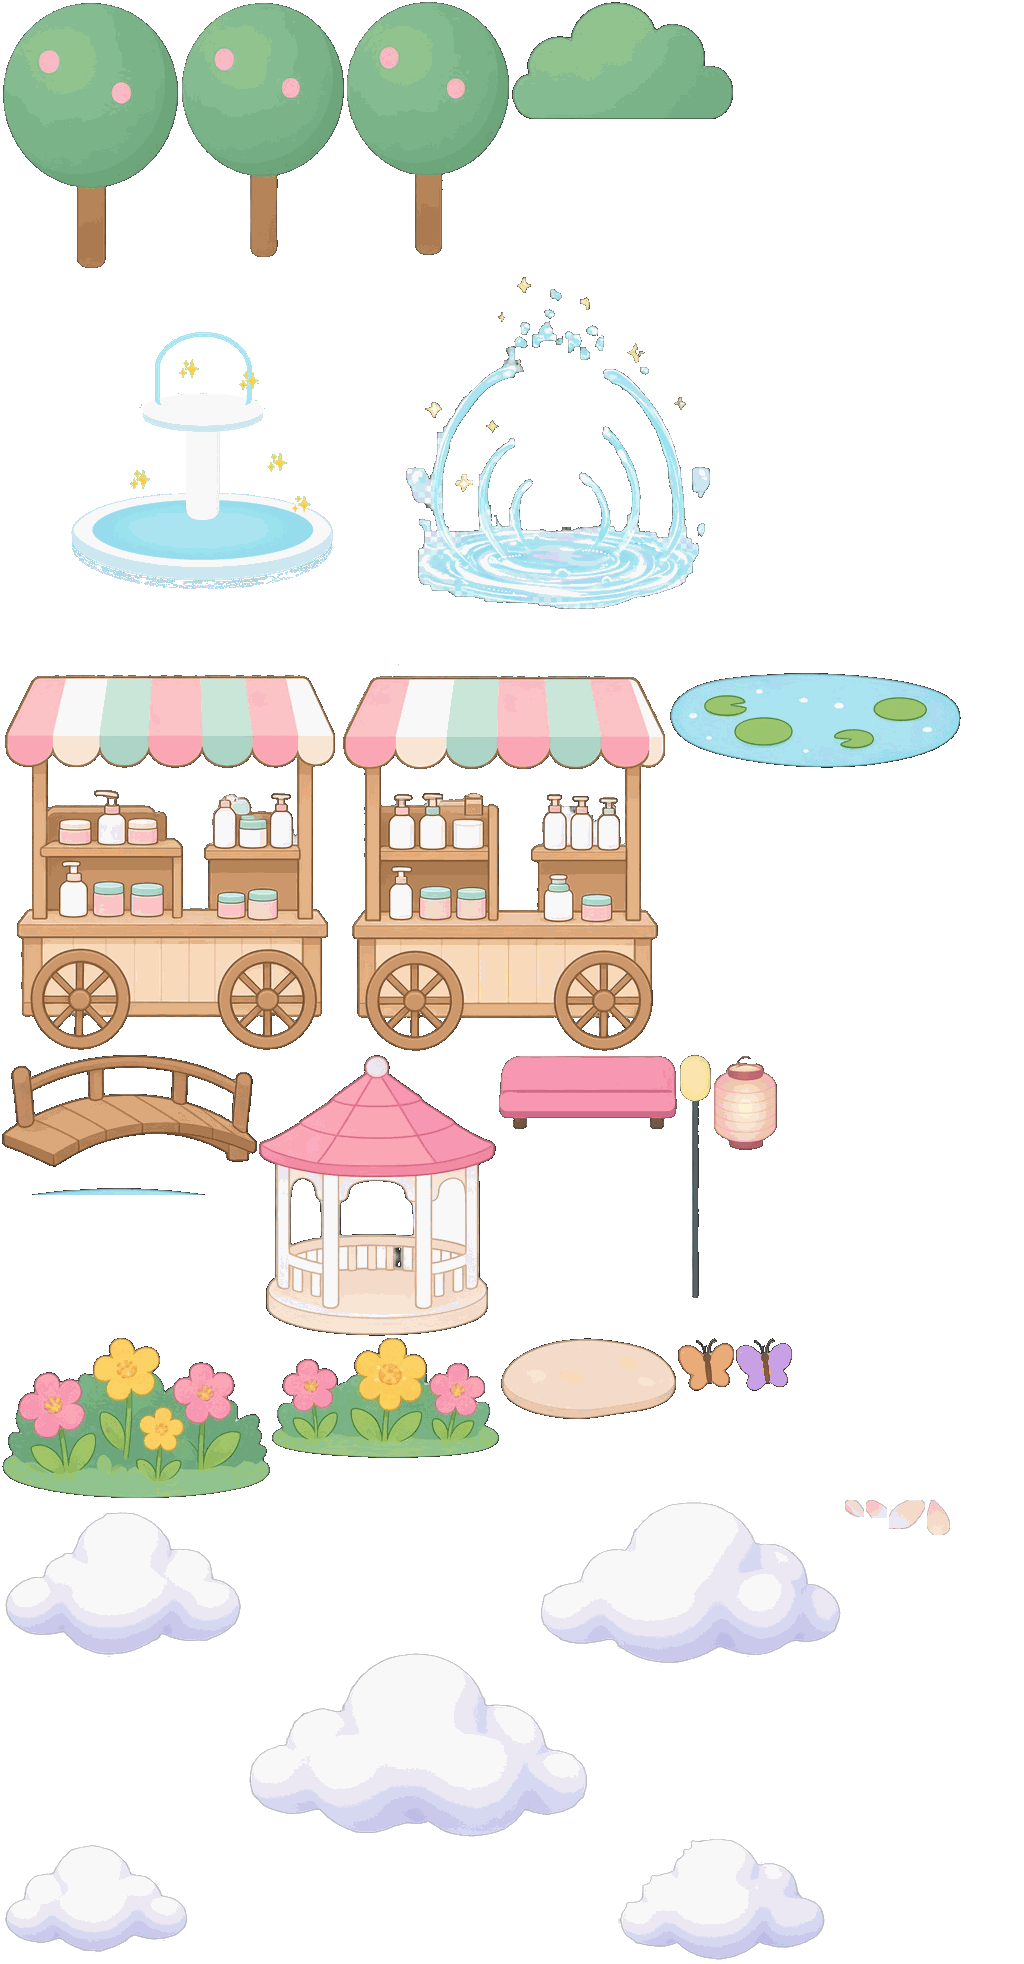
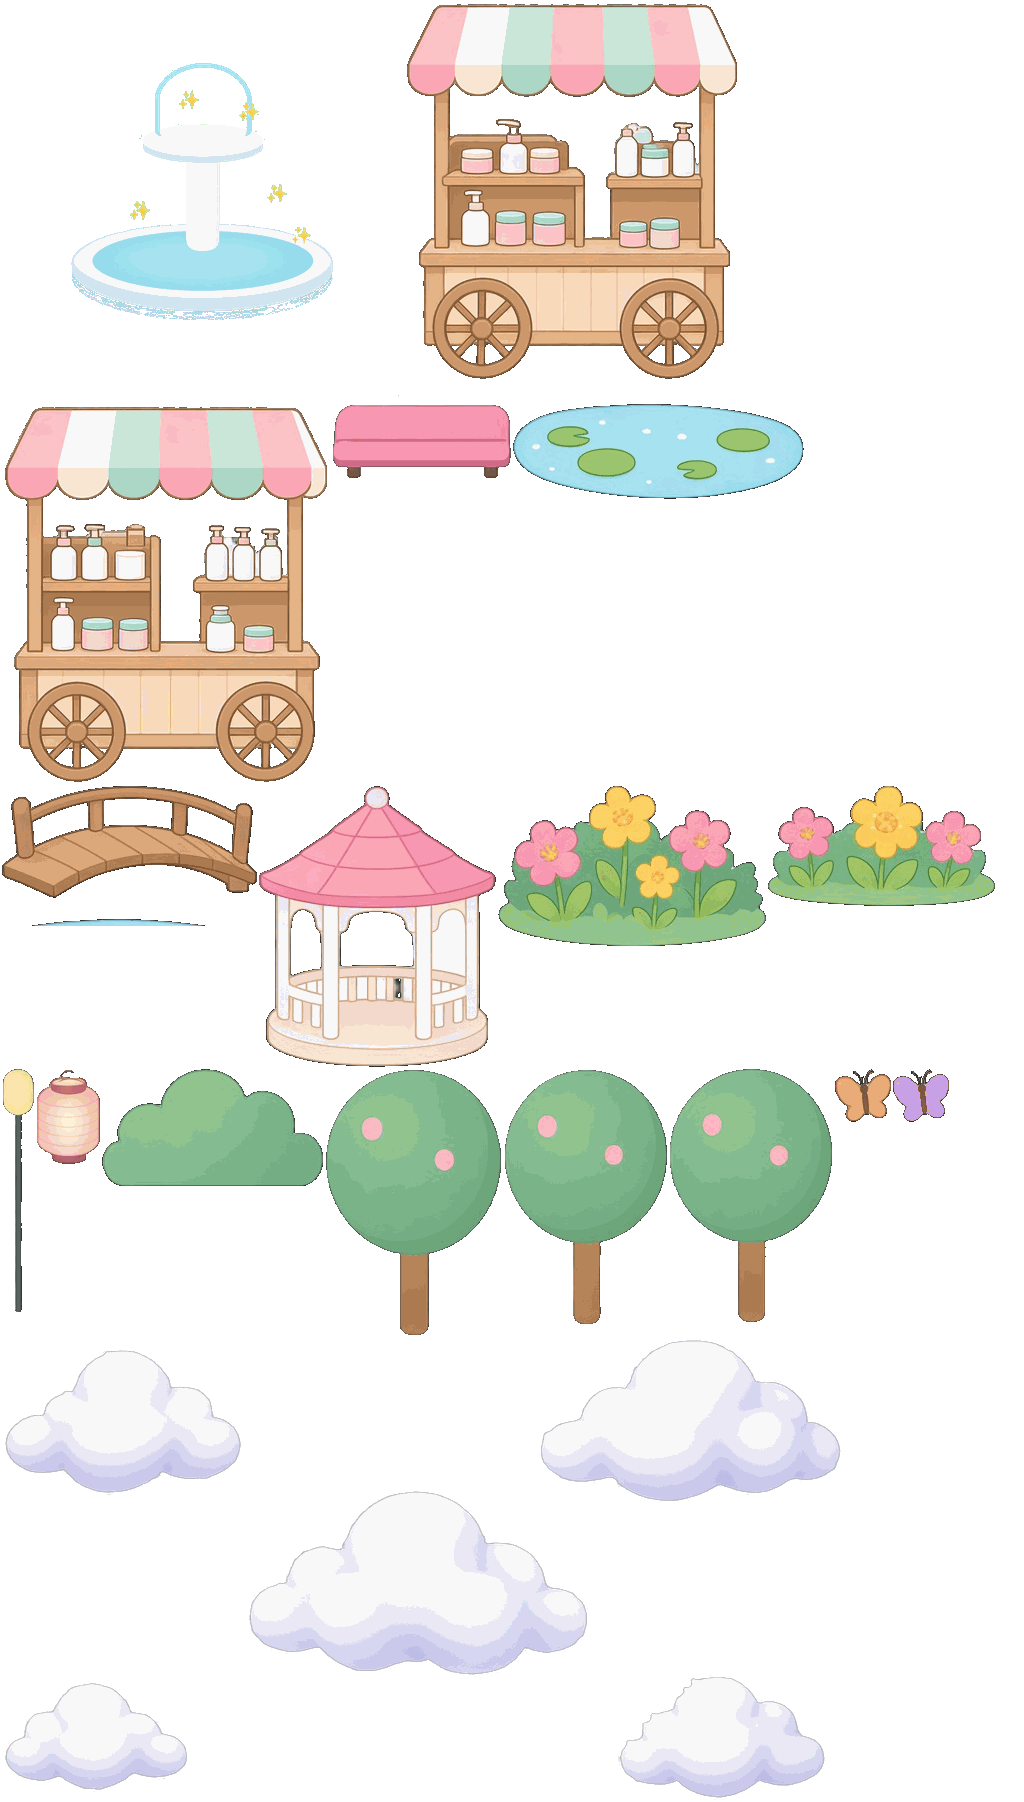
Swap in the approved path-map lobby art.
The ground, walk mask, and prop layout now follow the designer's path network. Spawn sits on the white plaza just south of the fountain.

diff --git a/lib/mascot/game/game.test.ts b/lib/mascot/game/game.test.ts
@@ -395,7 +395,7 @@ describe("lobby world", () => {
     assert.equal(LOBBY_WORLD.height, 2400);
     assert.equal(LOBBY_WORLD.minCover, 1.3);
     assert.deepEqual(LOBBY_WORLD.walk, { minX: 0.05, maxX: 0.95, minY: 0.05, maxY: 0.95 });
-    assert.deepEqual(LOBBY_WORLD.spawn, { x: 0.5, y: 0.55, dx: 0.08, dy: 0.05 });
+    assert.deepEqual(LOBBY_WORLD.spawn, { x: 0.5, y: 0.5552, dx: 0.08, dy: 0.05 });
     assert.deepEqual(clampLobbyPoint(0, 0), { x: 0.05, y: 0.05 });
     assert.deepEqual(clampLobbyPoint(2, 2), { x: 0.95, y: 0.95 });
     for (const view of [
@@ -412,8 +412,8 @@ describe("lobby world", () => {
     const rolls = [0, 1, 0.25, 0.75];
     let i = 0;
     const spawned = lobbySpawn(() => rolls[i++] ?? 0);
-    assert.ok(spawned.x >= 0.5 - 0.08 && spawned.x <= 0.5 + 0.08);
-    assert.ok(spawned.y >= 0.55 - 0.05 && spawned.y <= 0.55 + 0.05);
+    assert.ok(spawned.x >= LOBBY_WORLD.spawn.x - LOBBY_WORLD.spawn.dx && spawned.x <= LOBBY_WORLD.spawn.x + LOBBY_WORLD.spawn.dx);
+    assert.ok(spawned.y >= LOBBY_WORLD.spawn.y - LOBBY_WORLD.spawn.dy && spawned.y <= LOBBY_WORLD.spawn.y + LOBBY_WORLD.spawn.dy);
   });
 
   it("spreads sample friends across the whole floor", () => {

diff --git a/lib/mascot/game/lobby.ts b/lib/mascot/game/lobby.ts
@@ -44,8 +44,8 @@ export const LOBBY_WORLD = {
    * This rectangle just keeps feet off the extreme border.
    */
   walk: { minX: 0.05, maxX: 0.95, minY: 0.05, maxY: 0.95 },
-  /** New arrivals. Random inside x±dx and y±dy. */
-  spawn: { x: 0.5, y: 0.55, dx: 0.08, dy: 0.05 },
+  /** New arrivals. On the south edge of the plaza, off the fountain. */
+  spawn: { x: 0.5, y: 0.5552, dx: 0.08, dy: 0.05 },
 } as const;
 
 /** Square pixel world. The long side of the viewport sets the size. */

diff --git a/components/mascot/game/be-da-game.css b/components/mascot/game/be-da-game.css
@@ -67,7 +67,11 @@
 }
 
 .beda-lobby[data-engine="pixi"] .beda-lobby-world {
-  /* Above the canvas and the edge vignette, under the chrome buttons. */
+  /* Screen-space names. Cover the canvas, not the tall DOM world. */
+  inset: 0;
+  width: 100%;
+  height: 100%;
+  aspect-ratio: auto;
   z-index: 6;
   pointer-events: none;
 }

diff --git a/lib/mascot/game/lobby-park.ts b/lib/mascot/game/lobby-park.ts
@@ -1,5 +1,5 @@
 /**
- * Pending square lobby art (designer sign-off still open).
+ * Approved path-map lobby art.
  * Swap these files when a new painting arrives — the loader only stretches them.
  *
  *   public/mascot/lobby/ground.jpg   2048×2048 base
